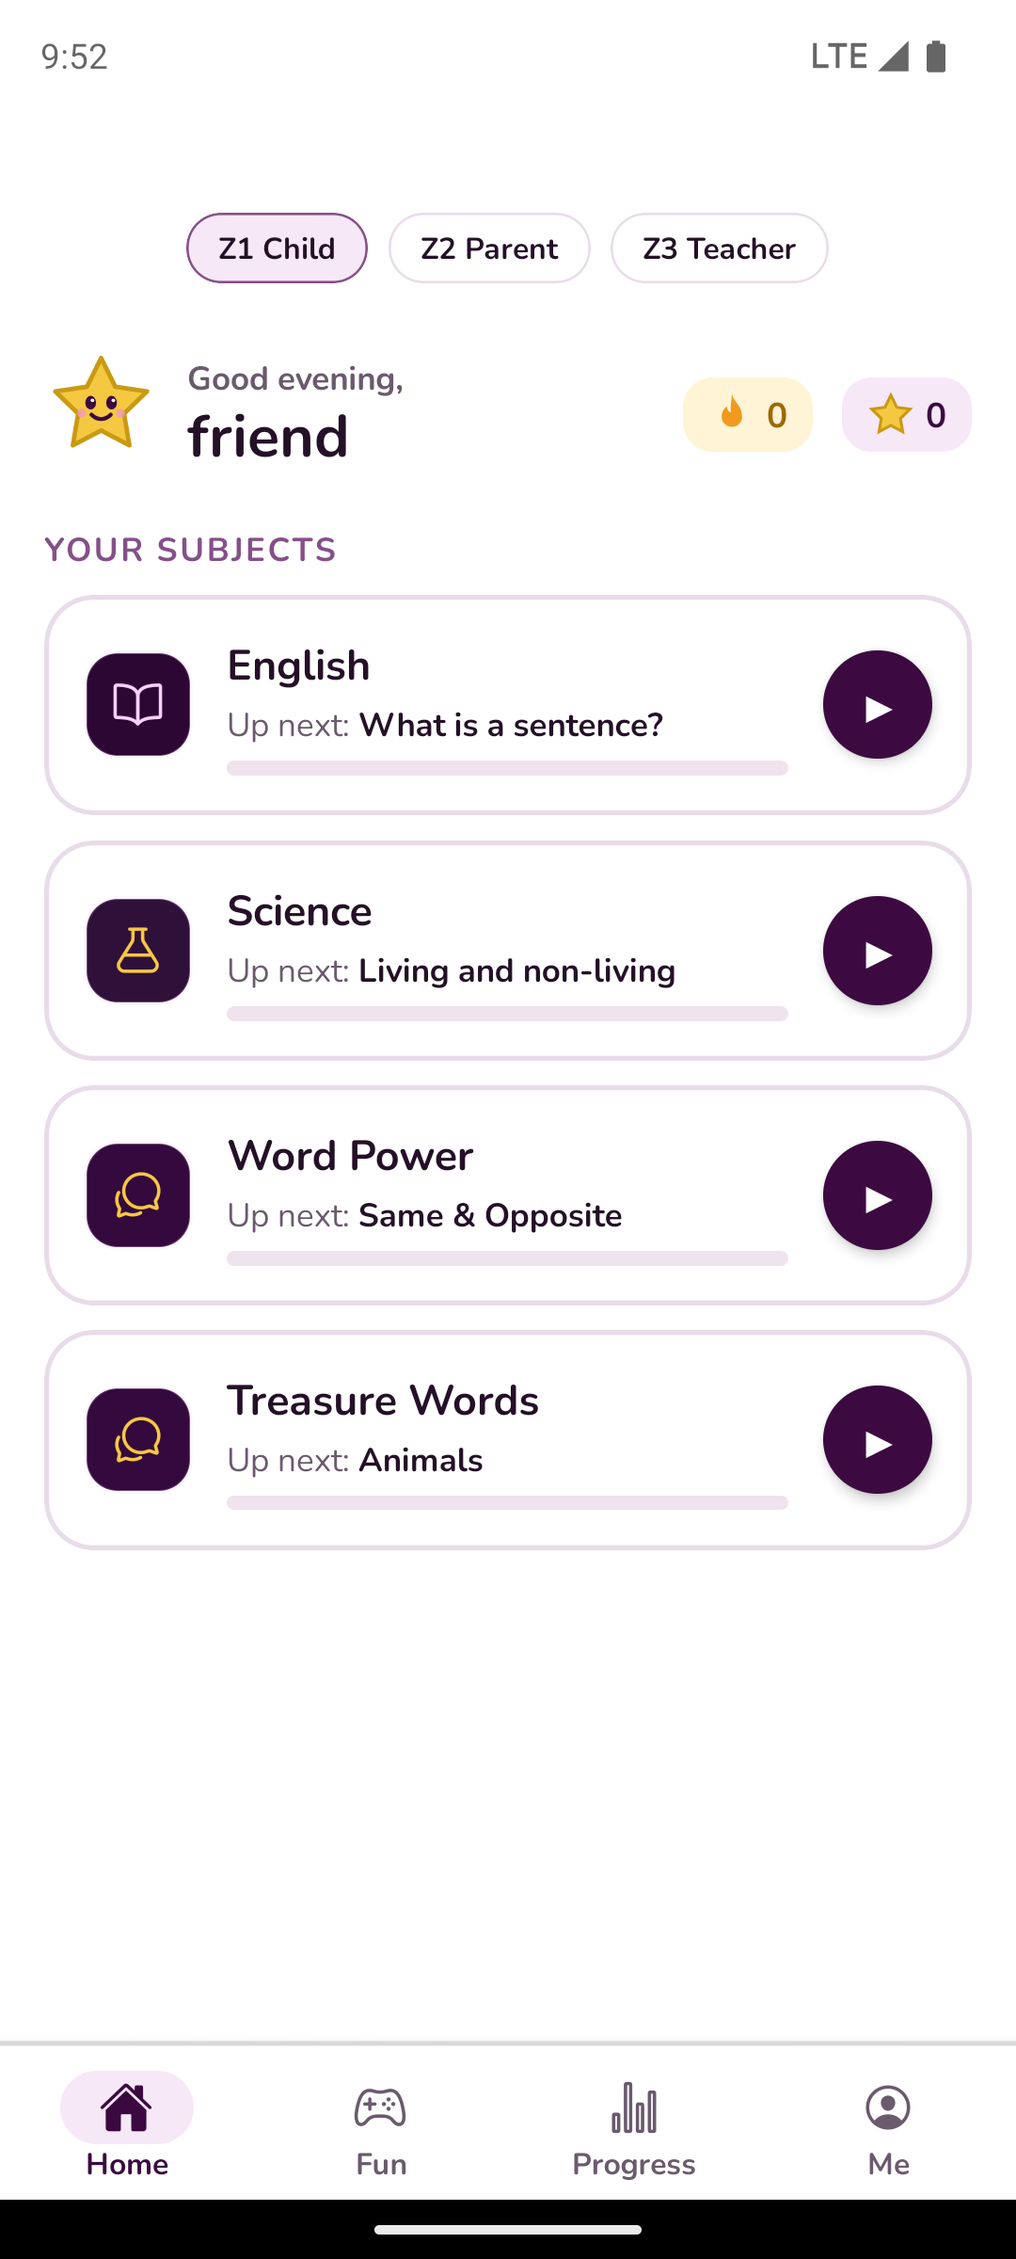
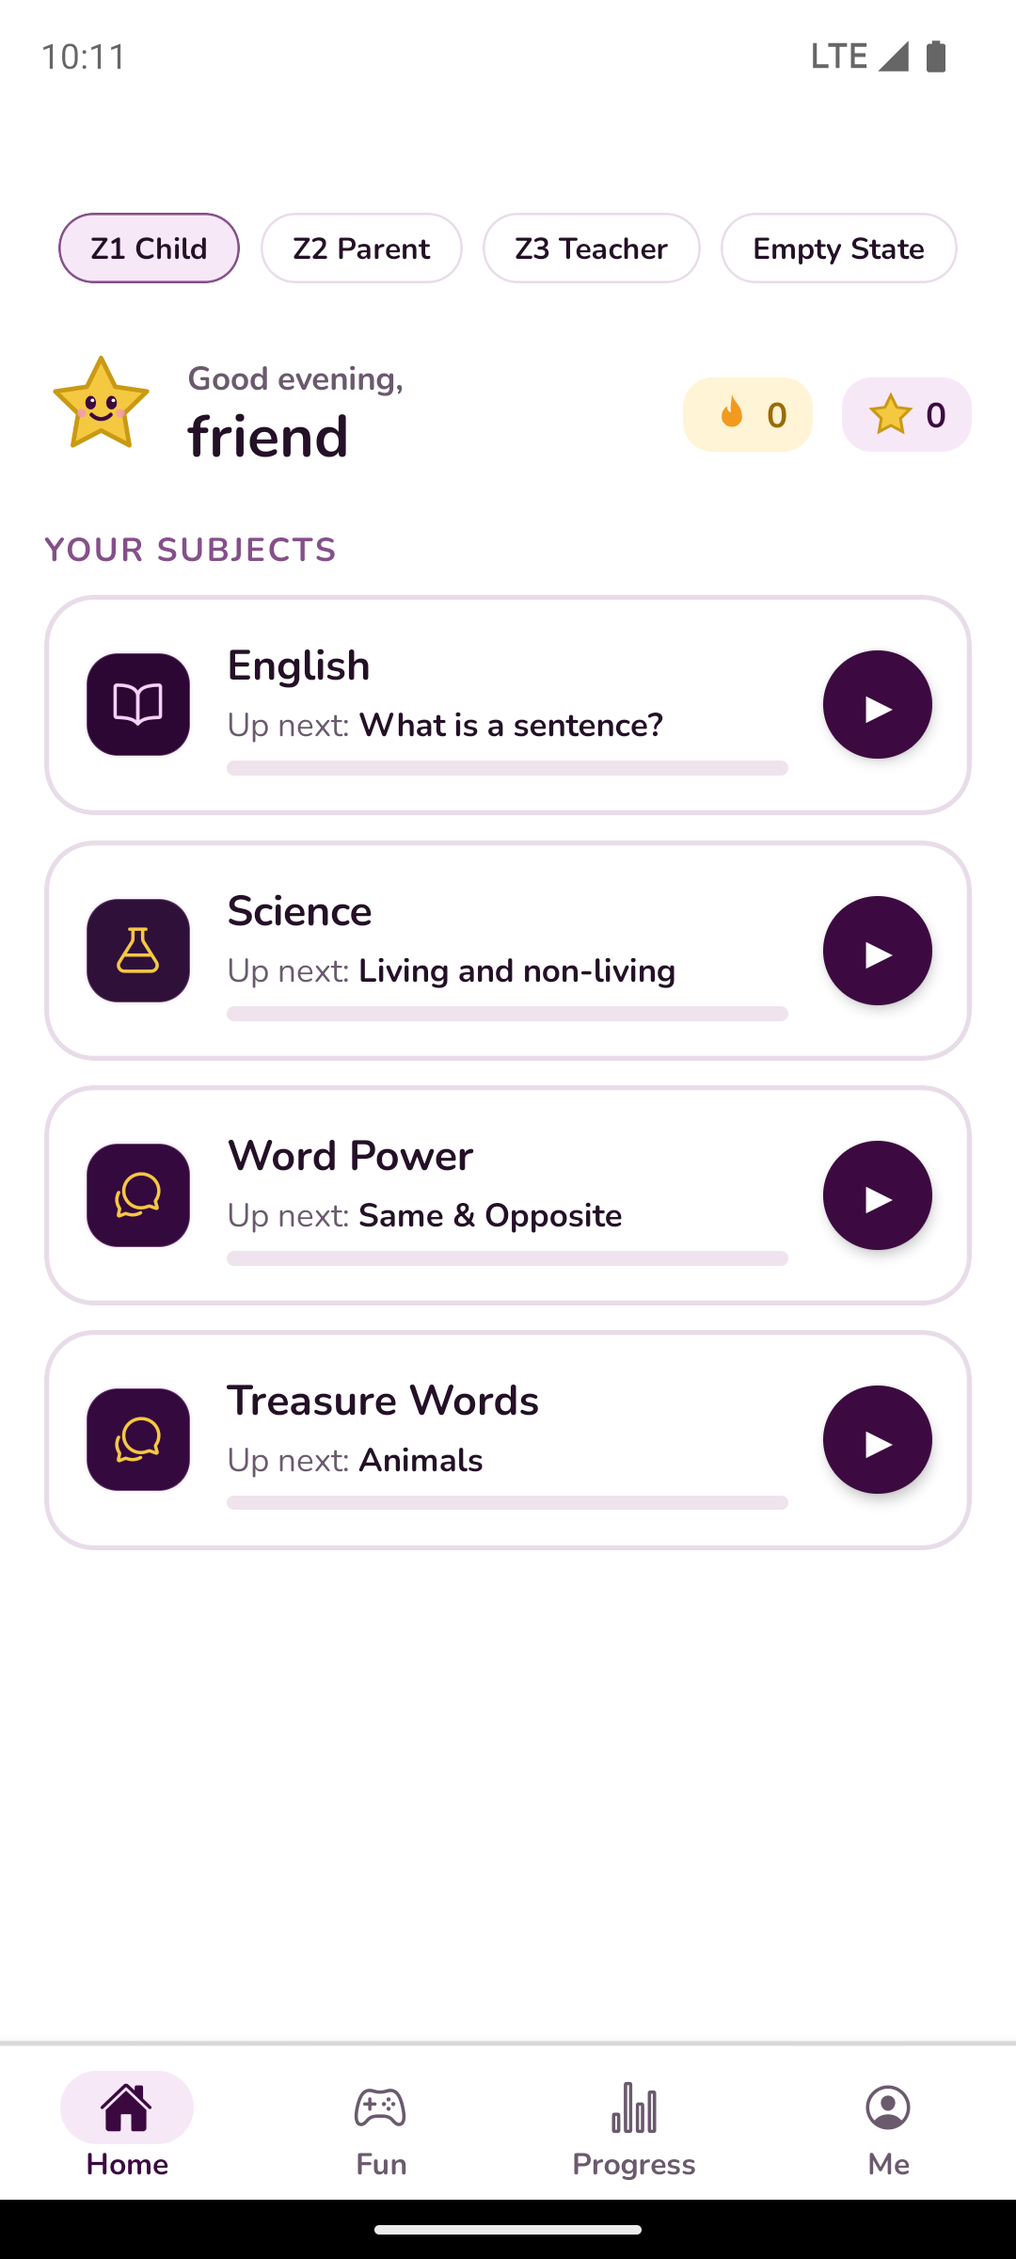
gemini(G49): empty states for grown-ups (Who is learning? card + Add another child)

Changed region(s): [[0.0611, 0.0938, 0.9167, 0.125], [0.0306, 0.0, 0.1222, 0.0312]]

diff --git a/screens/home/HomeScreen.js b/screens/home/HomeScreen.js
@@ -197,10 +197,14 @@ export default function HomeScreen({ navigation }) {
   }, [teacherClasses]);
 
   // Role detection
-  const [devRole, setDevRole] = useState(null); // null (auto) | "parent" | "teacher" | "child"
-  const isParent = devRole === "parent" || (devRole !== "child" && devRole !== "teacher" && children.length > 0 && !userData?.isChild && !Number.isInteger(userData?.grade));
-  const isTeacherRole = devRole === "teacher" || (devRole !== "child" && devRole !== "parent" && isTeacher && !userData?.isChild && !Number.isInteger(userData?.grade));
-  const isAdultView = isParent || isTeacherRole;
+  const [devRole, setDevRole] = useState(null); // null (auto) | "parent" | "teacher" | "child" | "new_grownup"
+  const isChildUser = devRole === "child" || !!userData?.isChild || Number.isInteger(userData?.grade);
+  const isNewGrownUp =
+    devRole === "new_grownup" ||
+    (!isChildUser && children.length === 0 && teacherClasses.length === 0 && devRole !== "parent" && devRole !== "teacher");
+  const isParent = devRole === "parent" || (!isChildUser && !isNewGrownUp && (children.length > 0 || devRole === "parent"));
+  const isTeacherRole = devRole === "teacher" || (!isChildUser && !isNewGrownUp && (isTeacher || devRole === "teacher"));
+  const isAdultView = isNewGrownUp || isParent || isTeacherRole;
 
   const displayChildren = useMemo(() => {
     if (children.length > 0) return children;
@@ -285,6 +289,9 @@ export default function HomeScreen({ navigation }) {
           <Pressable onPress={() => setDevRole("teacher")} style={[styles.devPill, devRole === "teacher" && styles.devPillActive]}>
             <Text style={styles.devPillText}>Z3 Teacher</Text>
           </Pressable>
+          <Pressable onPress={() => setDevRole("new_grownup")} style={[styles.devPill, devRole === "new_grownup" && styles.devPillActive]}>
+            <Text style={styles.devPillText}>Empty State</Text>
+          </Pressable>
         </View>
       ) : null}
 
@@ -312,73 +319,87 @@ export default function HomeScreen({ navigation }) {
       {/* ============================================================== */}
       {/* 1. TEACHER HOME (Z3) — shown if user teaches classes */}
       {/* ============================================================== */}
-      {isTeacherRole && displayTeacherClasses.length > 0 ? (
+      {isTeacherRole ? (
         <View style={styles.sectionWrap}>
-          {displayTeacherClasses.map((cls) => {
-            const w = teacherWeekMap[cls.id] || {};
-            const subjectTitle = SUBJECT_NAMES[cls.subject] || cls.subject || "English";
-            const label = classLabel(cls);
-            const waiting = w.waitingCount ?? 3;
-            const students = w.studentsCount || cls.studentCount || cls.size || 38;
-            const active = w.active ?? 24;
-            const topicText = w.assignment?.title
-              ? `${w.assignment.title}${w.assignment.dueDate ? `, due ${w.assignment.dueDate}` : ""}`
-              : "Reported speech, due Fri";
-            const reteachText = w.reteach
-              ? `${w.reteach.title} (${Math.round((w.reteach.kids / Math.max(1, w.reteach.of)) * 100)}% below 60%)`
-              : "Reported questions (52% right)";
+          {displayTeacherClasses.length > 0 ? (
+            displayTeacherClasses.map((cls) => {
+              const w = teacherWeekMap[cls.id] || {};
+              const subjectTitle = SUBJECT_NAMES[cls.subject] || cls.subject || "English";
+              const label = classLabel(cls);
+              const waiting = w.waitingCount ?? 3;
+              const students = w.studentsCount || cls.studentCount || cls.size || 38;
+              const active = w.active ?? 24;
+              const topicText = w.assignment?.title
+                ? `${w.assignment.title}${w.assignment.dueDate ? `, due ${w.assignment.dueDate}` : ""}`
+                : "Reported speech, due Fri";
+              const reteachText = w.reteach
+                ? `${w.reteach.title} (${Math.round((w.reteach.kids / Math.max(1, w.reteach.of)) * 100)}% below 60%)`
+                : "Reported questions (52% right)";
 
-            return (
-              <Pressable
-                key={cls.id}
-                onPress={() => navigation.navigate("Stats", { screen: "ProgressScreen", params: { view: "classes", classId: cls.id } })}
-                accessibilityRole="button"
-                accessibilityLabel={`${label}, ${students} students. Tap for class progress.`}
-              >
-                <View style={styles.teacherCard}>
-                  {/* Class Header & Pills */}
-                  <View style={styles.cardHeaderRow}>
-                    <Text style={styles.classTitle}>{label} · {subjectTitle}</Text>
-                    <View style={{ flexDirection: "row", gap: 6 }}>
-                      {waiting > 0 ? (
-                        <View style={styles.waitingPill}>
-                          <Text style={styles.waitingPillText}>{waiting} waiting</Text>
+              return (
+                <Pressable
+                  key={cls.id}
+                  onPress={() => navigation.navigate("Stats", { screen: "ProgressScreen", params: { view: "classes", classId: cls.id } })}
+                  accessibilityRole="button"
+                  accessibilityLabel={`${label}, ${students} students. Tap for class progress.`}
+                >
+                  <View style={styles.teacherCard}>
+                    {/* Class Header & Pills */}
+                    <View style={styles.cardHeaderRow}>
+                      <Text style={styles.classTitle}>{label} · {subjectTitle}</Text>
+                      <View style={{ flexDirection: "row", gap: 6 }}>
+                        {waiting > 0 ? (
+                          <View style={styles.waitingPill}>
+                            <Text style={styles.waitingPillText}>{waiting} waiting</Text>
+                          </View>
+                        ) : null}
+                        <View style={styles.countPill}>
+                          <Text style={styles.countPillText}>{students} students</Text>
                         </View>
-                      ) : null}
-                      <View style={styles.countPill}>
-                        <Text style={styles.countPillText}>{students} students</Text>
                       </View>
                     </View>
-                  </View>
 
-                  {/* Summary Lines */}
-                  <Text style={styles.weekLine}>
-                    This week: <Text style={{ fontFamily: "nunitoBold" }}>{active} of {students} practised</Text>
-                    {` · topic: ${topicText}`}
-                  </Text>
-
-                  {/* Reteach Recommendation */}
-                  <View style={styles.reteachBox}>
-                    <Text style={styles.reteachLabel}>
-                      Teach again:{" "}
-                      <Text style={styles.reteachTopic}>{reteachText}</Text>
+                    {/* Summary Lines */}
+                    <Text style={styles.weekLine}>
+                      This week: <Text style={{ fontFamily: "nunitoBold" }}>{active} of {students} practised</Text>
+                      {` · topic: ${topicText}`}
                     </Text>
+
+                    {/* Reteach Recommendation */}
+                    <View style={styles.reteachBox}>
+                      <Text style={styles.reteachLabel}>
+                        Teach again:{" "}
+                        <Text style={styles.reteachTopic}>{reteachText}</Text>
+                      </Text>
+                    </View>
+
+                    <Text style={styles.cardHint}>Tap the class for each student.</Text>
+
+                    {/* Bottom Thumb Zone Action */}
+                    <Pressable
+                      style={styles.primaryBottomBtn}
+                      onPress={() => navigation.navigate("Stats", { screen: "ProgressScreen", params: { view: "classes", classId: cls.id, assign: true } })}
+                      accessibilityRole="button"
+                    >
+                      <Text style={styles.primaryBottomBtnText}>ASSIGN NEXT TOPIC</Text>
+                    </Pressable>
                   </View>
-
-                  <Text style={styles.cardHint}>Tap the class for each student.</Text>
-
-                  {/* Bottom Thumb Zone Action */}
-                  <Pressable
-                    style={styles.primaryBottomBtn}
-                    onPress={() => navigation.navigate("Stats", { screen: "ProgressScreen", params: { view: "classes", classId: cls.id, assign: true } })}
-                    accessibilityRole="button"
-                  >
-                    <Text style={styles.primaryBottomBtnText}>ASSIGN NEXT TOPIC</Text>
-                  </Pressable>
-                </View>
+                </Pressable>
+              );
+            })
+          ) : (
+            <View style={styles.emptyTeacherCard}>
+              <Text style={styles.emptyCardTitle}>Connect your school</Text>
+              <Text style={styles.emptyCardSub}>Join as a teacher with your school's invite code to view your classes and assign topics.</Text>
+              <Pressable
+                style={styles.primaryBottomBtn}
+                onPress={() => navigation.navigate("JoinAsTeacher")}
+                accessibilityRole="button"
+              >
+                <Text style={styles.primaryBottomBtnText}>Type your school's code</Text>
               </Pressable>
-            );
-          })}
+            </View>
+          )}
         </View>
       ) : null}
 
@@ -435,6 +456,81 @@ export default function HomeScreen({ navigation }) {
               </View>
             );
           })}
+
+          {/* Small '+ Add another child' under the child cards */}
+          <Pressable
+            style={styles.addAnotherChildBtn}
+            onPress={() => navigation.navigate("AddChild")}
+            accessibilityRole="button"
+            accessibilityLabel="Add another child"
+          >
+            <Ionicons name="add-circle-outline" size={20} color={P.selectedText} />
+            <Text style={styles.addAnotherChildText}>+ Add another child</Text>
+          </Pressable>
+        </View>
+      ) : null}
+
+      {/* ============================================================== */}
+      {/* 3. GROWN-UP EMPTY STATE ("Who is learning?") */}
+      {/* ============================================================== */}
+      {isNewGrownUp ? (
+        <View style={styles.sectionWrap}>
+          <View style={styles.whoIsLearningCard}>
+            <Text style={styles.whoTitle}>Who is learning?</Text>
+            <Text style={styles.whoSub}>Pick how you want to use Apprec8:</Text>
+
+            {/* Choice 1: My child, on this phone */}
+            <Pressable
+              style={({ pressed }) => [styles.whoChoice, pressed && { opacity: 0.8 }]}
+              onPress={() => navigation.navigate("AddChild")}
+              accessibilityRole="button"
+            >
+              <View style={[styles.whoIconWrap, { backgroundColor: P.selectedBg }]}>
+                <Ionicons name="phone-portrait-outline" size={22} color={P.selectedText} />
+              </View>
+              <View style={{ flex: 1 }}>
+                <Text style={styles.whoChoiceTitle}>My child, on this phone</Text>
+                <Text style={styles.whoChoiceSub}>Set their name and class, then hand them the phone</Text>
+              </View>
+              <Ionicons name="chevron-forward" size={18} color={P.dimText} />
+            </Pressable>
+
+            <View style={styles.divider} />
+
+            {/* Choice 2: My child has their own phone */}
+            <Pressable
+              style={({ pressed }) => [styles.whoChoice, pressed && { opacity: 0.8 }]}
+              onPress={() => navigation.navigate("LinkChild")}
+              accessibilityRole="button"
+            >
+              <View style={[styles.whoIconWrap, { backgroundColor: P.streakBg }]}>
+                <Ionicons name="link-outline" size={22} color={P.streakText} />
+              </View>
+              <View style={{ flex: 1 }}>
+                <Text style={styles.whoChoiceTitle}>My child has their own phone</Text>
+                <Text style={styles.whoChoiceSub}>Link with a 6-number code so you see their week</Text>
+              </View>
+              <Ionicons name="chevron-forward" size={18} color={P.dimText} />
+            </Pressable>
+
+            <View style={styles.divider} />
+
+            {/* Choice 3: I'm a teacher */}
+            <Pressable
+              style={({ pressed }) => [styles.whoChoice, pressed && { opacity: 0.8 }]}
+              onPress={() => navigation.navigate("JoinAsTeacher")}
+              accessibilityRole="button"
+            >
+              <View style={[styles.whoIconWrap, { backgroundColor: P.track }]}>
+                <Ionicons name="school-outline" size={22} color={P.text} />
+              </View>
+              <View style={{ flex: 1 }}>
+                <Text style={styles.whoChoiceTitle}>I'm a teacher</Text>
+                <Text style={styles.whoChoiceSub}>Type your school's invite code to see your class</Text>
+              </View>
+              <Ionicons name="chevron-forward" size={18} color={P.dimText} />
+            </Pressable>
+          </View>
         </View>
       ) : null}
 
@@ -831,5 +927,86 @@ const makeStyles = (P, insets) =>
       fontSize: 12,
       fontFamily: "nunitoBold",
       color: P.text,
+    },
+
+    // Empty state & who is learning card
+    whoIsLearningCard: {
+      padding: 20,
+      borderRadius: 24,
+      backgroundColor: P.card,
+      borderWidth: 2,
+      borderColor: P.border,
+      gap: 10,
+    },
+    whoTitle: {
+      fontSize: 22,
+      fontFamily: "nunitoBold",
+      color: P.text,
+    },
+    whoSub: {
+      fontSize: 14,
+      fontFamily: "nunito",
+      color: P.textSoft,
+      marginBottom: 4,
+    },
+    whoChoice: {
+      flexDirection: "row",
+      alignItems: "center",
+      gap: 12,
+      paddingVertical: 10,
+    },
+    whoIconWrap: {
+      width: 44,
+      height: 44,
+      borderRadius: 14,
+      alignItems: "center",
+      justifyContent: "center",
+    },
+    whoChoiceTitle: {
+      fontSize: 16,
+      fontFamily: "nunitoBold",
+      color: P.text,
+    },
+    whoChoiceSub: {
+      fontSize: 12,
+      fontFamily: "nunito",
+      color: P.textSoft,
+      marginTop: 2,
+    },
+    divider: {
+      height: 1,
+      backgroundColor: P.border,
+    },
+    addAnotherChildBtn: {
+      flexDirection: "row",
+      alignItems: "center",
+      justifyContent: "center",
+      gap: 8,
+      paddingVertical: 12,
+      marginTop: 4,
+    },
+    addAnotherChildText: {
+      fontSize: 14,
+      fontFamily: "nunitoBold",
+      color: P.selectedText,
+    },
+    emptyTeacherCard: {
+      padding: 20,
+      borderRadius: 24,
+      backgroundColor: P.card,
+      borderWidth: 2,
+      borderColor: P.border,
+      gap: 10,
+    },
+    emptyCardTitle: {
+      fontSize: 20,
+      fontFamily: "nunitoBold",
+      color: P.text,
+    },
+    emptyCardSub: {
+      fontSize: 14,
+      fontFamily: "nunito",
+      color: P.textSoft,
+      lineHeight: 20,
     },
   });

diff --git a/navigation/HomeNavigator.js b/navigation/HomeNavigator.js
@@ -31,6 +31,9 @@ import TaskEditor from "../screens/task/TaskEditor";
 import Tasks from "../screens/task/Tasks";
 import TaskDetails from "../screens/task/TaskDetails";
 import PracticePaperScreen from "../screens/paper/PracticePaperScreen";
+import AddChildScreen from "../screens/profile/AddChildScreen";
+import LinkChildScreen from "../screens/profile/LinkChildScreen";
+import JoinAsTeacherScreen from "../screens/profile/JoinAsTeacherScreen";
 
 const Stack = createStackNavigator();
 
@@ -66,6 +69,10 @@ const HomeNavigator = () => (
     <Stack.Screen name="TaskDetails" component={TaskDetails} />
     {/* Practice paper (mockup Q), from Home's Explore tile */}
     <Stack.Screen name="PracticePaper" component={PracticePaperScreen} />
+    {/* Child & Teacher actions from Home empty states */}
+    <Stack.Screen name="AddChild" component={AddChildScreen} />
+    <Stack.Screen name="LinkChild" component={LinkChildScreen} />
+    <Stack.Screen name="JoinAsTeacher" component={JoinAsTeacherScreen} />
   </Stack.Navigator>
 );
 

diff --git a/docs/agents/reports/G49.md b/docs/agents/reports/G49.md
@@ -62,6 +62,15 @@ Row Z anchors core actions in the thumb zone with zero unnecessary navigation la
   - Theme switcher, Delete account, Sign out.
 - **ADMIN section:** Cleanly retained for the owner (`Decisions`, `Owner extras` toggle, `Admin tools`).
 
+### 1.7 Empty States & Onboarding Clarity (Owner Feedback)
+- **Grown-up with no children & no classes:** Displays a prominent **"Who is learning?"** card low on Home with 3 clear choices:
+  1. **"My child, on this phone"** (*"Set their name and class, then hand them the phone"*) → opens `AddChildScreen`.
+  2. **"My child has their own phone"** (*"Link with a 6-number code so you see their week"*) → opens `LinkChildScreen`.
+  3. **"I'm a teacher"** (*"Type your school's invite code to see your class"*) → opens `JoinAsTeacherScreen`.
+- **Parent with existing children:** Displays a compact **`+ Add another child`** button directly beneath the child cards.
+- **Teacher with no classes:** Displays **"Connect your school"** card with a direct **`Type your school's code`** action opening `JoinAsTeacherScreen`.
+- Screens registered in `HomeNavigator` so pressing back from any onboarding action cleanly returns to Home.
+
 ---
 
 ## 2. Screenshot Comparison & Verification
@@ -70,8 +79,9 @@ All screenshots captured live on Android Emulator (Pixel 8a, API 35) running the
 
 | Mockup Reference | Live Captured Screenshot | Notes / Differences |
 |---|---|---|
-| `docs/mockups/rowZ/Z1-child-home.png` | `docs/agents/reports/G49/Z1-child-home.png` | **Match:** Content low, Mascot greeting, subject cards with icon, next step subtitle, thin progress bar, circular `▶` play button. Dev switcher pills (`[Z1 Child] [Z2 Parent] [Z3 Teacher]`) visible only in `__DEV__`. |
-| `docs/mockups/rowZ/Z2-parent-home.png` | `docs/agents/reports/G49/Z2-parent-home.png` | **Match:** Mascot "Good evening, Mohit", Pratha's week card with 3 stat boxes (4 days, 52 minutes, 86% right), practise together suggestion, and bottom thumb-zone button `▶ LET PRATHA PLAY`. |
+| `docs/mockups/rowZ/Z1-child-home.png` | `docs/agents/reports/G49/Z1-child-home.png` | **Match:** Content low, Mascot greeting, subject cards with icon, next step subtitle, thin progress bar, circular `▶` play button. Dev switcher pills visible only in `__DEV__`. |
+| `docs/mockups/rowZ/Z2-parent-home.png` | `docs/agents/reports/G49/Z2-parent-home.png` | **Match:** Mascot "Good evening, Mohit", Pratha's week card with 3 stat boxes (4 days, 52 minutes, 86% right), practise together suggestion, `+ Add another child` button, and bottom thumb-zone button `▶ LET PRATHA PLAY`. |
+| Empty State (Spec) | `docs/agents/reports/G49/Z2-grownup-empty-home.png` | **Match:** "Who is learning?" card with 3 big choices ("My child, on this phone", "My child has their own phone", "I'm a teacher"). |
 | `docs/mockups/rowZ/Z3-teacher-home.png` | `docs/agents/reports/G49/Z3-teacher-home.png` | **Match:** Mascot "Good evening, Seema", 10-B · English card, 3 waiting alert pill, 38 students, 24 of 38 practised, Teach again recommendation, bottom thumb-zone button `ASSIGN NEXT TOPIC`. |
 | `docs/mockups/rowZ/Z4-me.png` | `docs/agents/reports/G49/Z4-me.png` | **Match:** Content low, profile avatar & name, green Need Help row, Guides, and More row. Tapping More opens bottom sheet (`Z4-me-more-sheet.png`). |
 
@@ -84,3 +94,4 @@ All screenshots captured live on Android Emulator (Pixel 8a, API 35) running the
 - [x] **Full Test Suite Passing:** `npm test` passed across all 49 test suites (0 failures).
 - [x] **Production Bundle Build:** `npx expo export --platform android` completed with 0 errors (1981 modules, 8.82 MB bytecode).
 - [x] **Screenshots Archived:** Saved to `docs/agents/reports/G49/` (`Z1-child-home.png`, `Z2-parent-home.png`, `Z3-teacher-home.png`, `Z4-me.png`, `Z4-me-more-sheet.png`).
+
